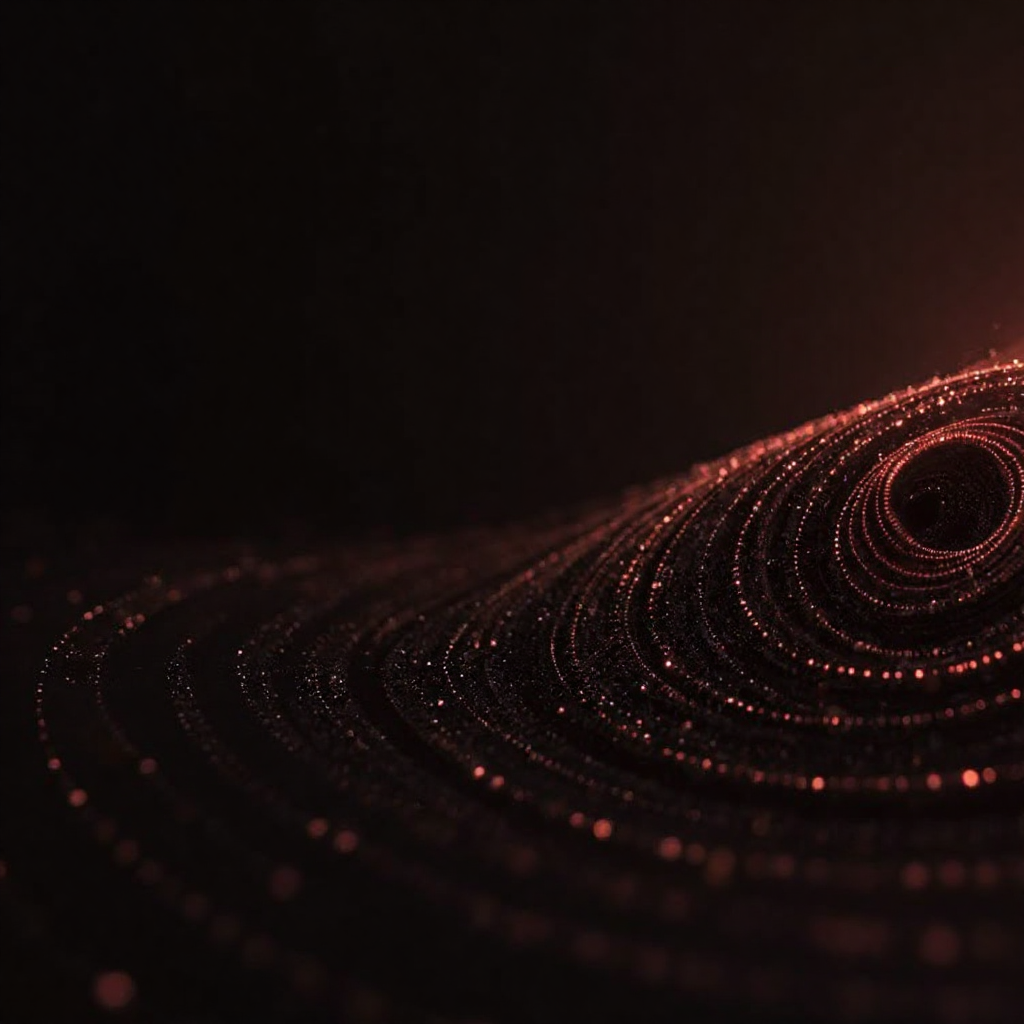
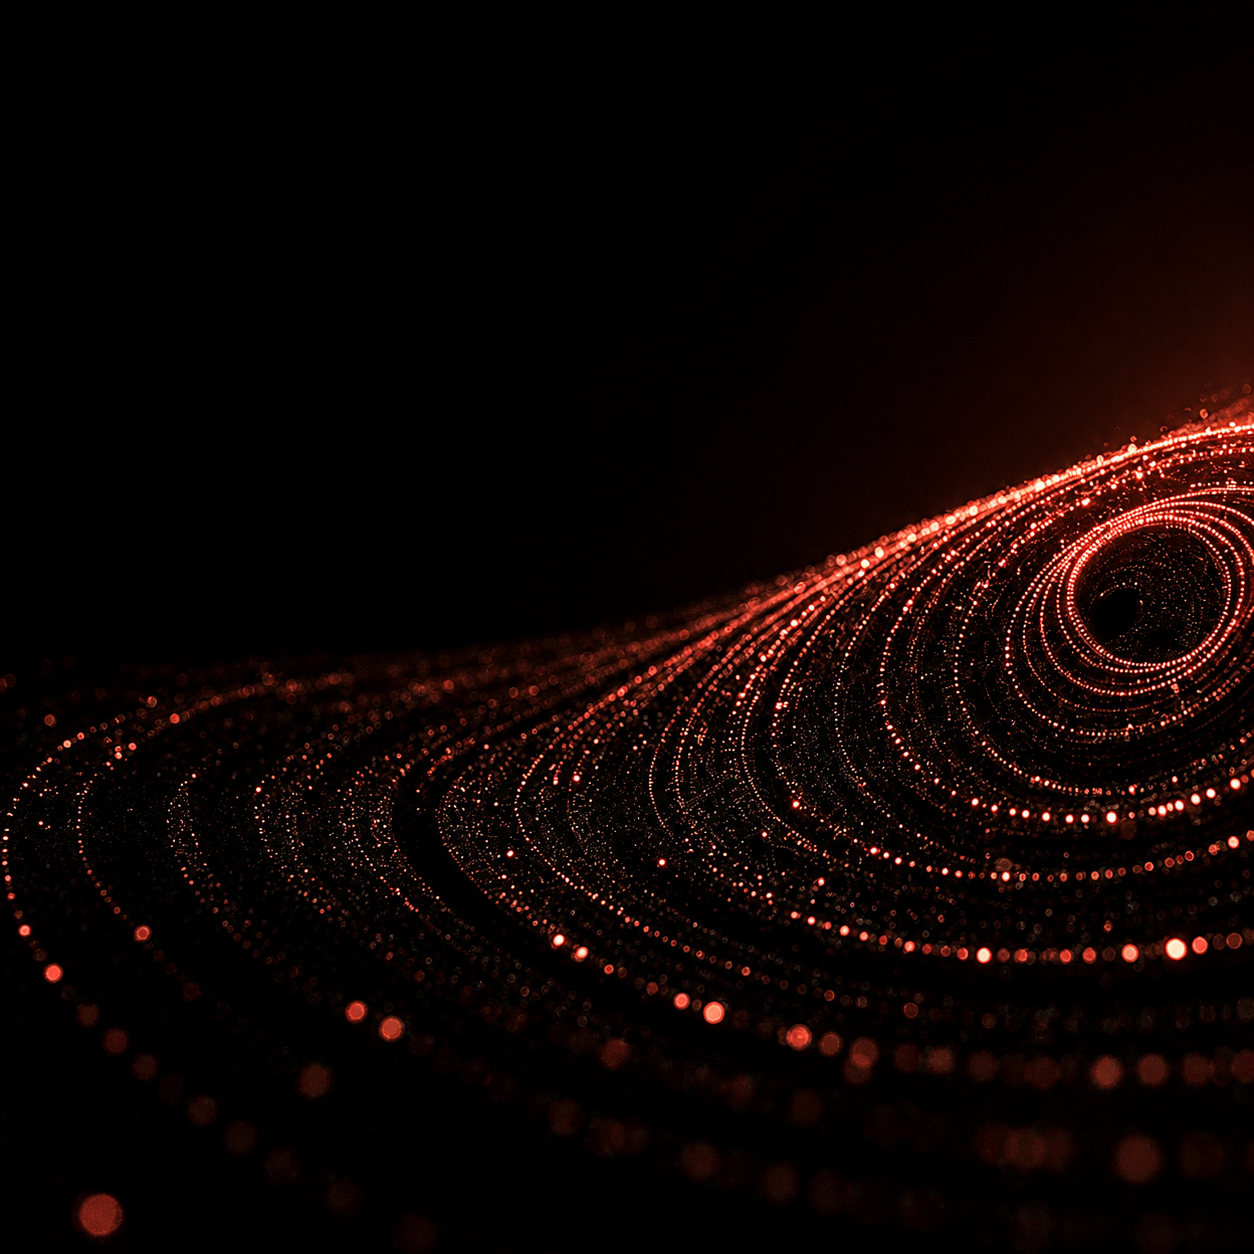
feat: update global styles and add new media assets
- Set global background colors for light and dark themes.
- Adjusted background positioning for body elements in light and dark modes.
- Added new video asset for enhanced media content.
- Updated existing background images for improved visual consistency.

diff --git a/src/index.css b/src/index.css
@@ -104,6 +104,15 @@
 }
 
 /* === Global background images === */
+html {
+  min-height: 100%;
+  background-color: #f5f7fb;
+}
+
+html.dark {
+  background-color: #111111;
+}
+
 html,
 body {
   height: 100%;
@@ -119,7 +128,7 @@ body {
 body {
   background-image: url('./assets/images/light_mode_bg.png');
   background-size: cover;
-  background-position: center center;
+  background-position: center bottom;
   background-repeat: no-repeat;
   background-attachment: fixed;
   background-color: #f5f7fb;
@@ -127,6 +136,7 @@ body {
 
 .dark body {
   background-image: url('./assets/images/dark_mode.png');
+  background-position: center center;
   background-color: #111111;
 }
 